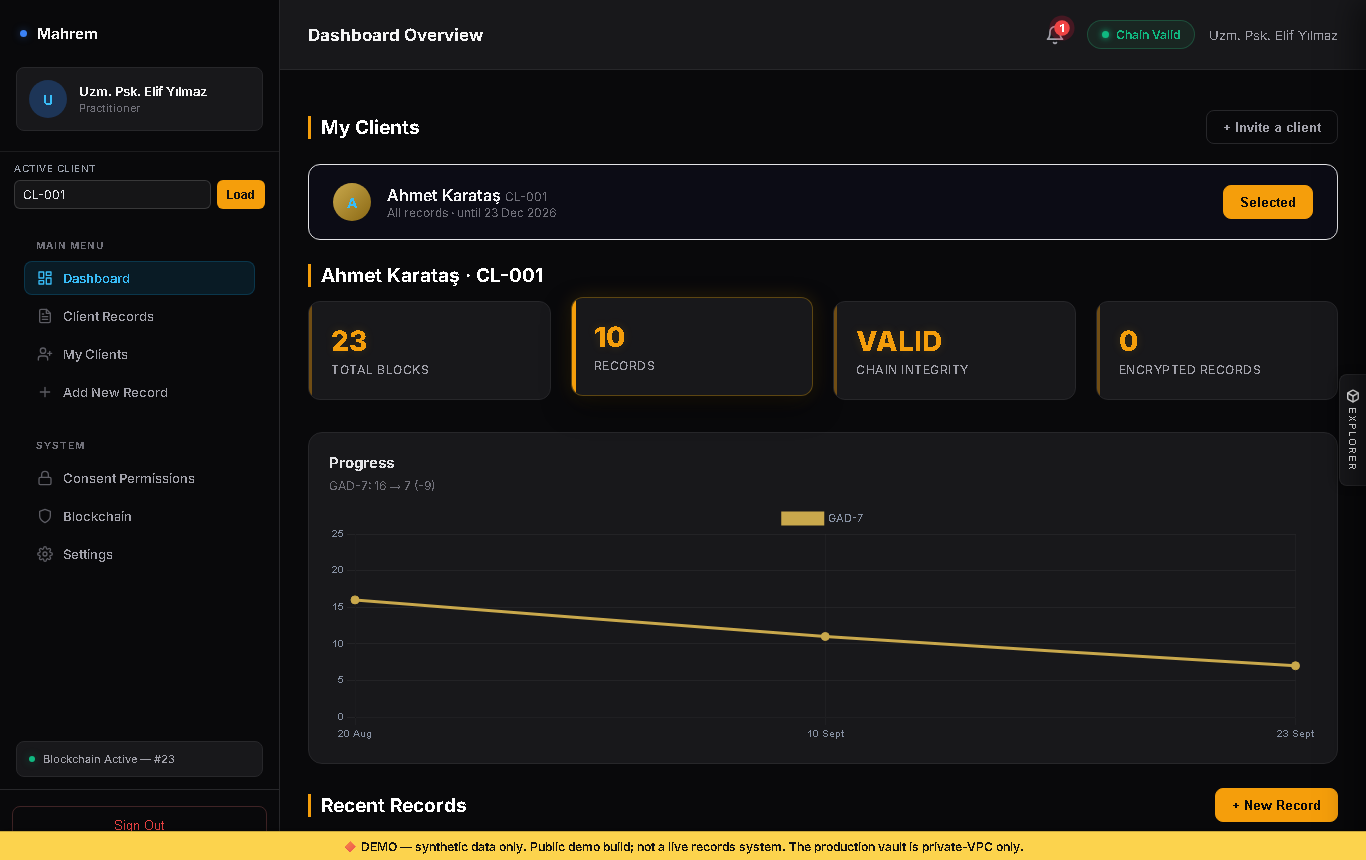
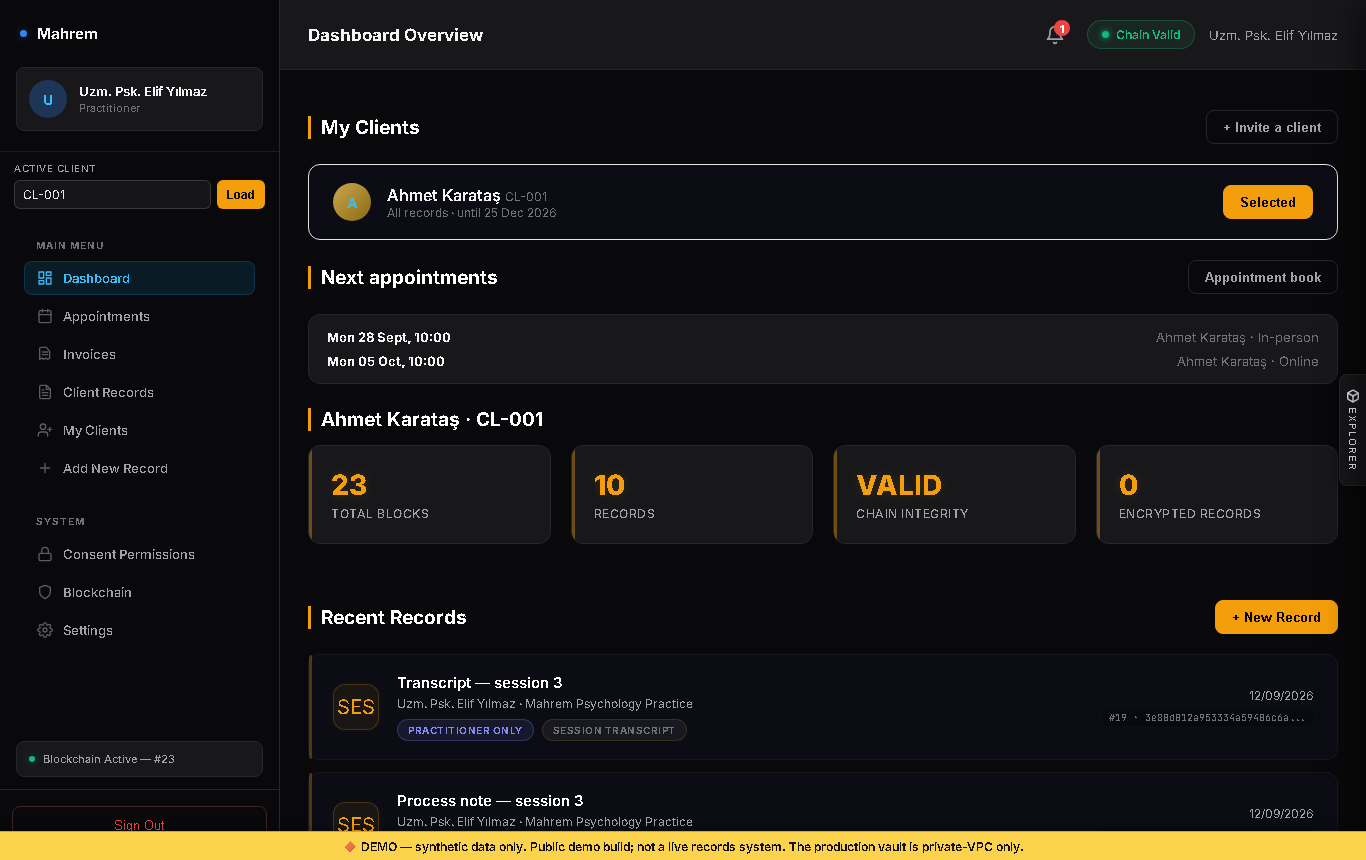
New README screenshots and walkthrough for the current scope
The images still showed the removed GAD-7 progress chart. Recaptured from a
fresh Docker demo: six gallery images (sign in, practitioner dashboard,
records with a practitioner-only transcript, appointment book, invoice,
access ledger) and an 11-scene walkthrough (practitioner, secretary, a
client's first sign-in with the KVKK notice, My Data, an erasure request
waiting for dual control). The capture scripts tick the notice's styled
checkbox directly and accept the erasure confirmation dialog.

diff --git a/scripts/capture_walkthrough.py b/scripts/capture_walkthrough.py
@@ -1,10 +1,10 @@
 """
 scripts/capture_walkthrough.py — regenerate the README walkthrough GIF.
 
-Drives a running demo instance with a headless browser, captures ten scenes
-(the practitioner, the client, and an administrator who cannot read anything on
-their own), overlays a self-captioning top bar on each, and stitches them into a
-looping GIF at docs/screenshots/walkthrough.gif.
+Drives a running demo instance with a headless browser, captures eleven scenes
+(the practitioner, the secretary, the client, and an administrator who cannot
+read anything on their own), overlays a self-captioning top bar on each, and
+stitches them into a looping GIF at docs/screenshots/walkthrough.gif.
 
 Silent by design: every frame explains itself, so the GIF is legible in a README
 without audio.
@@ -20,7 +20,8 @@ Then:
     python scripts/capture_walkthrough.py                       # uses :8000
     python scripts/capture_walkthrough.py http://127.0.0.1:8093
 
-It signs in three times; the demo allows 5 sign-ins per IP per minute.
+It signs in four times; the demo allows 5 sign-ins per IP per minute. Run it on a
+fresh demo: the client's privacy-notice scene needs a client who has not accepted it.
 """
 
 import os
@@ -35,6 +36,7 @@ ROOT = os.path.dirname(os.path.dirname(os.path.abspath(__file__)))
 OUT_GIF = os.path.join(ROOT, "docs", "screenshots", "walkthrough.gif")
 
 PRACTITIONER = ("psk.elif", "Practitioner@2026!")
+SECRETARY = ("secretary.ayse", "Secretary@2026!")
 CLIENT = ("client001", "Client@2026Secure!")
 ADMIN = ("admin", "Admin@2026Secure!")
 VW = {"width": 1366, "height": 860}
@@ -42,15 +44,16 @@ VW = {"width": 1366, "height": 860}
 # (id, caption, duration_ms)
 SCENES = [
     ("01", "Sign in — Argon2id hashing, httpOnly-cookie sessions, 5 attempts per minute", 2300),
-    ("02", "The practitioner signs in  (psk.elif \u00b7 Uzm. Psk. Elif Y\u0131lmaz)", 1500),
-    ("03", "Dashboard — only clients who gave consent, and the next appointments", 3200),
-    ("04", "Client Records — every row is a signed block with an access level", 2800),
-    ("05", "My Clients — invite with a one-time code; an invitation grants no access", 2600),
-    ("06", "The client signs in — their own file; the practitioner's process note is hidden", 3000),
-    ("07", "My Consents — the client decides who sees which records, and until when", 2800),
-    ("08", "Who Accessed My Records — tamper-evident, hash-linked access ledger", 2800),
-    ("09", "An admin sees \u201cSELECT CLIENT\u201d — no records on their own authority", 2700),
-    ("10", "Dual control — reading a record needs a second person's co-signature", 3400),
+    ("02", "Practitioner dashboard — clients who gave consent, and the next appointments", 3000),
+    ("03", "The client's file — profile, notes, and a transcript only the practitioner sees", 3200),
+    ("04", "Appointment book — no double booking; completed sessions are invoiced", 2800),
+    ("05", "An invoice — numbered, printable, and nothing clinical on it", 3000),
+    ("06", "The secretary runs the book — and sees no record, consent or note", 3000),
+    ("07", "A client's first sign-in — the KVKK privacy notice and explicit consent", 3200),
+    ("08", "The client's own file — the practitioner's transcript and process note are hidden", 3000),
+    ("09", "My Data — download a copy (KVKK Art. 11) or request erasure", 2800),
+    ("10", "An admin sees \u201cSELECT CLIENT\u201d — no records on their own authority", 2600),
+    ("11", "KVKK requests — erasure needs a second person's co-signature (dual control)", 3200),
 ]
 
 TITLE = "MAHREM — CONFIDENTIAL CLIENT RECORDS"
@@ -68,10 +71,14 @@ def _font(sz, bold=False):
     return ImageFont.load_default()
 
 
-def _fill_login(page, user, pw):
+def _sign_in(browser, user, pw, settle=4500):
+    page = browser.new_context(viewport=VW).new_page()
     page.goto(BASE, wait_until="networkidle")
     page.fill("#inp-username", user)
     page.fill("#inp-password", pw)
+    page.click("#btn-login")
+    page.wait_for_timeout(settle)
+    return page
 
 
 def _shot(page, raw_dir, sid, settle):
@@ -88,36 +95,45 @@ def capture(raw_dir):
         pg = b.new_context(viewport=VW).new_page()
         pg.goto(BASE, wait_until="networkidle")
         _shot(pg, raw_dir, "01", 700)
-        _fill_login(pg, *PRACTITIONER)
-        _shot(pg, raw_dir, "02", 300)
+        pg.fill("#inp-username", PRACTITIONER[0])
+        pg.fill("#inp-password", PRACTITIONER[1])
         pg.click("#btn-login")
-        _shot(pg, raw_dir, "03", 5000)
+        _shot(pg, raw_dir, "02", 5500)
         pg.click('[data-page="records"]')
-        _shot(pg, raw_dir, "04", 3000)
-        pg.click('[data-page="clients"]')
-        _shot(pg, raw_dir, "05", 2000)
+        _shot(pg, raw_dir, "03", 3500)
+        pg.click('[data-page="appointments"]')
+        _shot(pg, raw_dir, "04", 2500)
+        pg.click('[data-action="open-invoice"]')
+        _shot(pg, raw_dir, "05", 1800)
 
-        # Act 2 — the client
-        pg = b.new_context(viewport=VW).new_page()
-        _fill_login(pg, *CLIENT)
-        pg.click("#btn-login")
-        pg.wait_for_timeout(4500)
+        # Act 2 — the secretary
+        pg = _sign_in(b, *SECRETARY)
+        _shot(pg, raw_dir, "06", 800)
+
+        # Act 3 — the client
+        pg = _sign_in(b, *CLIENT)
+        pg.wait_for_selector("#kvkk-notice-overlay:not([hidden])", timeout=20000)
+        _shot(pg, raw_dir, "07", 800)                     # the privacy notice, first sign-in
+        # The styled box hides the real checkbox, so tick it directly.
+        pg.evaluate("document.getElementById('kvkk-consent-check').checked = true")
+        pg.click('[data-action="kvkk-accept"]')
+        pg.wait_for_timeout(1200)
         pg.click('[data-page="records"]')
-        _shot(pg, raw_dir, "06", 3000)
-        pg.click('[data-page="consent"]')
-        _shot(pg, raw_dir, "07", 2200)
-        pg.click('[data-page="my-access"]')
-        _shot(pg, raw_dir, "08", 2200)
+        _shot(pg, raw_dir, "08", 3500)
+        pg.click('[data-page="mydata"]')
+        _shot(pg, raw_dir, "09", 2200)
+        pg.on("dialog", lambda dialog: dialog.accept())   # "Ask the practice to erase your data?"
+        pg.click('[data-action="kvkk-request-erasure"]')   # so the operator has a request to show
+        pg.wait_for_timeout(2500)
 
-        # Act 3 — governance (an admin cannot self-authorize)
-        pg = b.new_context(viewport=VW).new_page()
-        _fill_login(pg, *ADMIN)
-        pg.click("#btn-login")
-        _shot(pg, raw_dir, "09", 4000)
-        pg.click('[data-page="dual-control"]')
-        _shot(pg, raw_dir, "10", 1800)
+        # Act 4 — governance
+        pg = _sign_in(b, *ADMIN)
+        _shot(pg, raw_dir, "10", 800)
+        pg.click('[data-page="erasure-requests"]')
+        _shot(pg, raw_dir, "11", 2000)
 
         b.close()
+
 
 
 def compose(raw_dir):

diff --git a/scripts/capture_screenshots.py b/scripts/capture_screenshots.py
@@ -1,9 +1,9 @@
 """
 scripts/capture_screenshots.py — regenerate the README screenshot gallery.
 
-Drives a running demo instance with a headless browser and saves the four
+Drives a running demo instance with a headless browser and saves the six
 gallery images to docs/screenshots/. Run it against a PRISTINE demo (only the
-seeded CL-001 file and its appointments).
+seeded CL-001 file, its appointments and invoices).
 
 Setup (one time):
     pip install playwright
@@ -56,17 +56,28 @@ def main():
         _shot(page, "01_login.png", settle=1200)
 
         _sign_in(page, *PRACTITIONER)
-        _shot(page, "02_dashboard.png", settle=5000)   # Argon2 login + client list + chart
+        _shot(page, "02_dashboard.png", settle=5500)   # Argon2 login + client list + appointments
 
         page.click('[data-page="records"]')
-        _shot(page, "03_records.png", settle=3000)
+        _shot(page, "03_records.png", settle=3500)
+
+        page.click('[data-page="appointments"]')
+        _shot(page, "04_appointments.png", settle=2500)
+
+        page.click('[data-action="open-invoice"]')
+        _shot(page, "05_invoice.png", settle=1800)
 
         # Then the client, who sees who read their file.
         page = browser.new_context(viewport=VIEWPORT).new_page()
         _sign_in(page, *CLIENT)
         page.wait_for_timeout(4000)
+        if page.is_visible("#kvkk-notice-overlay"):      # first sign-in: the privacy notice
+            # The styled box hides the real checkbox, so tick it directly.
+            page.evaluate("document.getElementById('kvkk-consent-check').checked = true")
+            page.click('[data-action="kvkk-accept"]')
+            page.wait_for_timeout(1000)
         page.click('[data-page="my-access"]')
-        _shot(page, "04_access_ledger.png", settle=2500)
+        _shot(page, "06_access_ledger.png", settle=2500)
 
         browser.close()
     print("Done ->", OUT)

diff --git a/README.md b/README.md
@@ -102,8 +102,9 @@ single node on purpose ([ADR-0002](docs/adr/0002-single-node-deployment.md)).
 
 ## Interface
 
-Captured from the Docker demo. The practitioner, then the client, then an
-administrator who cannot read anything on their own. Every frame is captioned.
+Captured from the Docker demo: the practitioner, the secretary, a client on their
+first sign-in, and an administrator who cannot read anything on their own. Every
+frame is captioned.
 
 ![Walkthrough](docs/screenshots/walkthrough.gif)
 
@@ -111,9 +112,13 @@ administrator who cannot read anything on their own. Every frame is captioned.
 | :---: | :---: |
 | ![Login](docs/screenshots/01_login.png) | ![Dashboard](docs/screenshots/02_dashboard.png) |
 
-| Client records (access-scoped, encrypted) | Tamper-evident access ledger |
+| The client's file (a transcript only the practitioner sees) | Appointment book |
 | :---: | :---: |
-| ![Records](docs/screenshots/03_records.png) | ![Access ledger](docs/screenshots/04_access_ledger.png) |
+| ![Records](docs/screenshots/03_records.png) | ![Appointments](docs/screenshots/04_appointments.png) |
+
+| Invoice (nothing clinical on it) | Tamper-evident access ledger (the client's view) |
+| :---: | :---: |
+| ![Invoice](docs/screenshots/05_invoice.png) | ![Access ledger](docs/screenshots/06_access_ledger.png) |
 
 ## Bugs I found and fixed
 

diff --git a/CHANGELOG.md b/CHANGELOG.md
@@ -18,6 +18,9 @@
 - **Security alerts** (admin, KVKK officer): the alerts the system already raised — such
   as an operator trying to read records without dual control — are now on a screen, with
   acknowledge.
+- **README**: new screenshots (appointment book, invoice, a transcript only the practitioner
+  sees) and an 11-scene walkthrough covering the practitioner, the secretary, a client's
+  first sign-in with the privacy notice, and an erasure request that needs dual control.
 
 ## [6.3.0] - 2026-09-27
 
